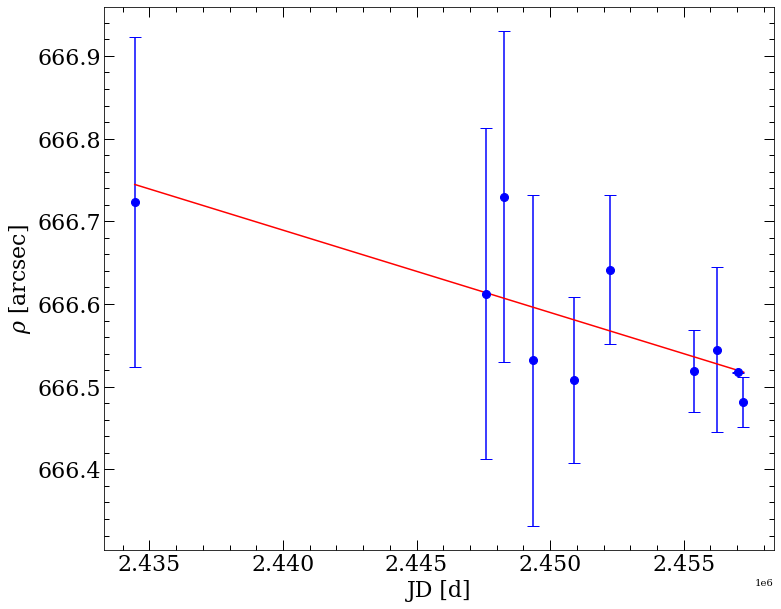
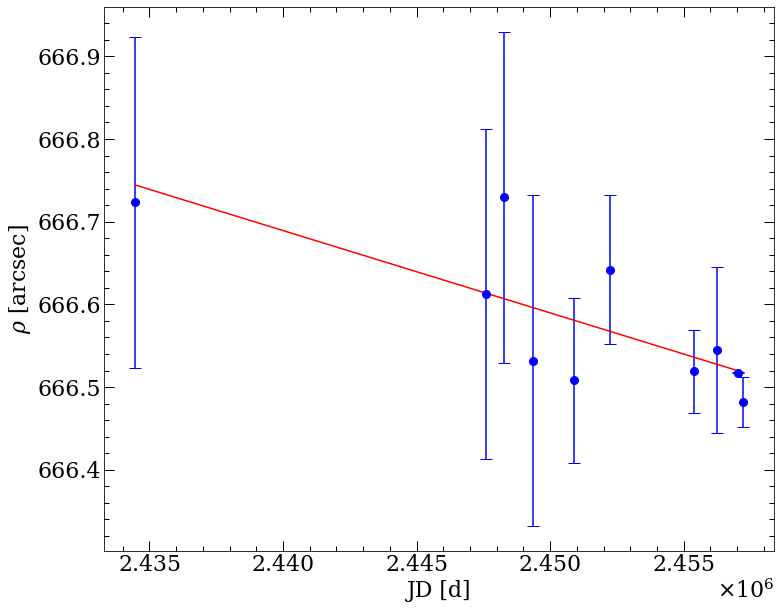
Add files via upload

diff --git a/cif02.rho_epochs.py b/cif02.rho_epochs.py
@@ -101,8 +101,10 @@ ax.tick_params('both', length=10, width=1, which='major')
 ax.tick_params('both', length=5, width=1, which='minor')
 ax.minorticks_on()
 ax.xaxis.set_tick_params(which='minor', bottom=True, top=True)
-ax.xaxis.set_major_formatter(ScalarFormatter())
+ax.xaxis.set_major_formatter(ScalarFormatter(useMathText=True))
 ax.yaxis.set_major_formatter(ScalarFormatter())
+ax.ticklabel_format(style='sci', axis='x', scilimits=(0, 0))
+ax.xaxis.get_offset_text().set_fontsize(labelsize)
 
 # Show & Save
 
